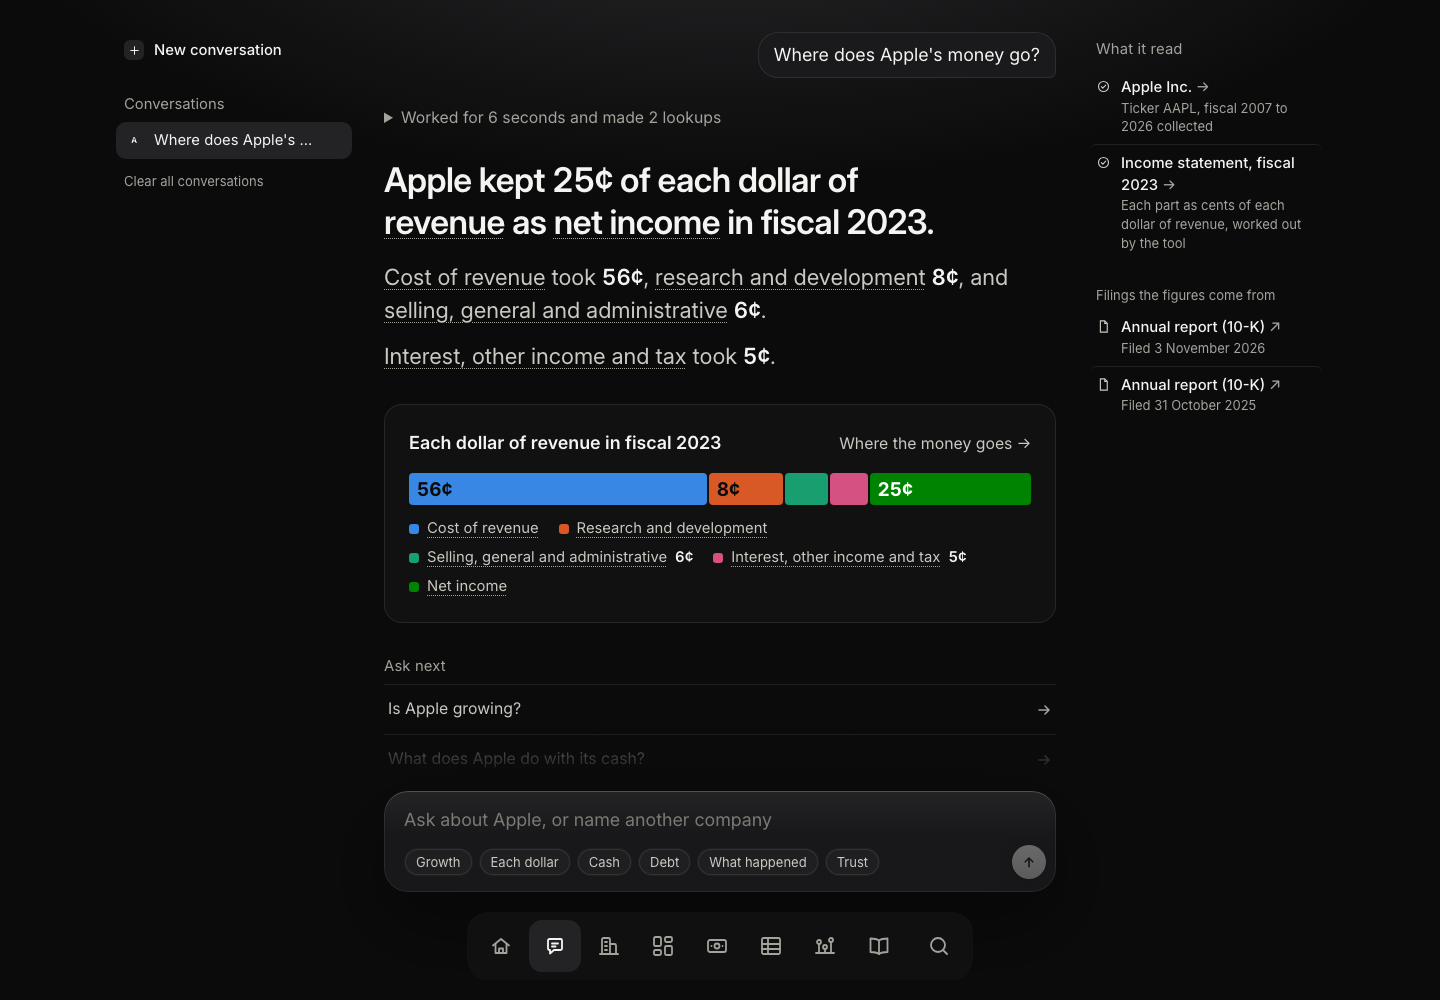
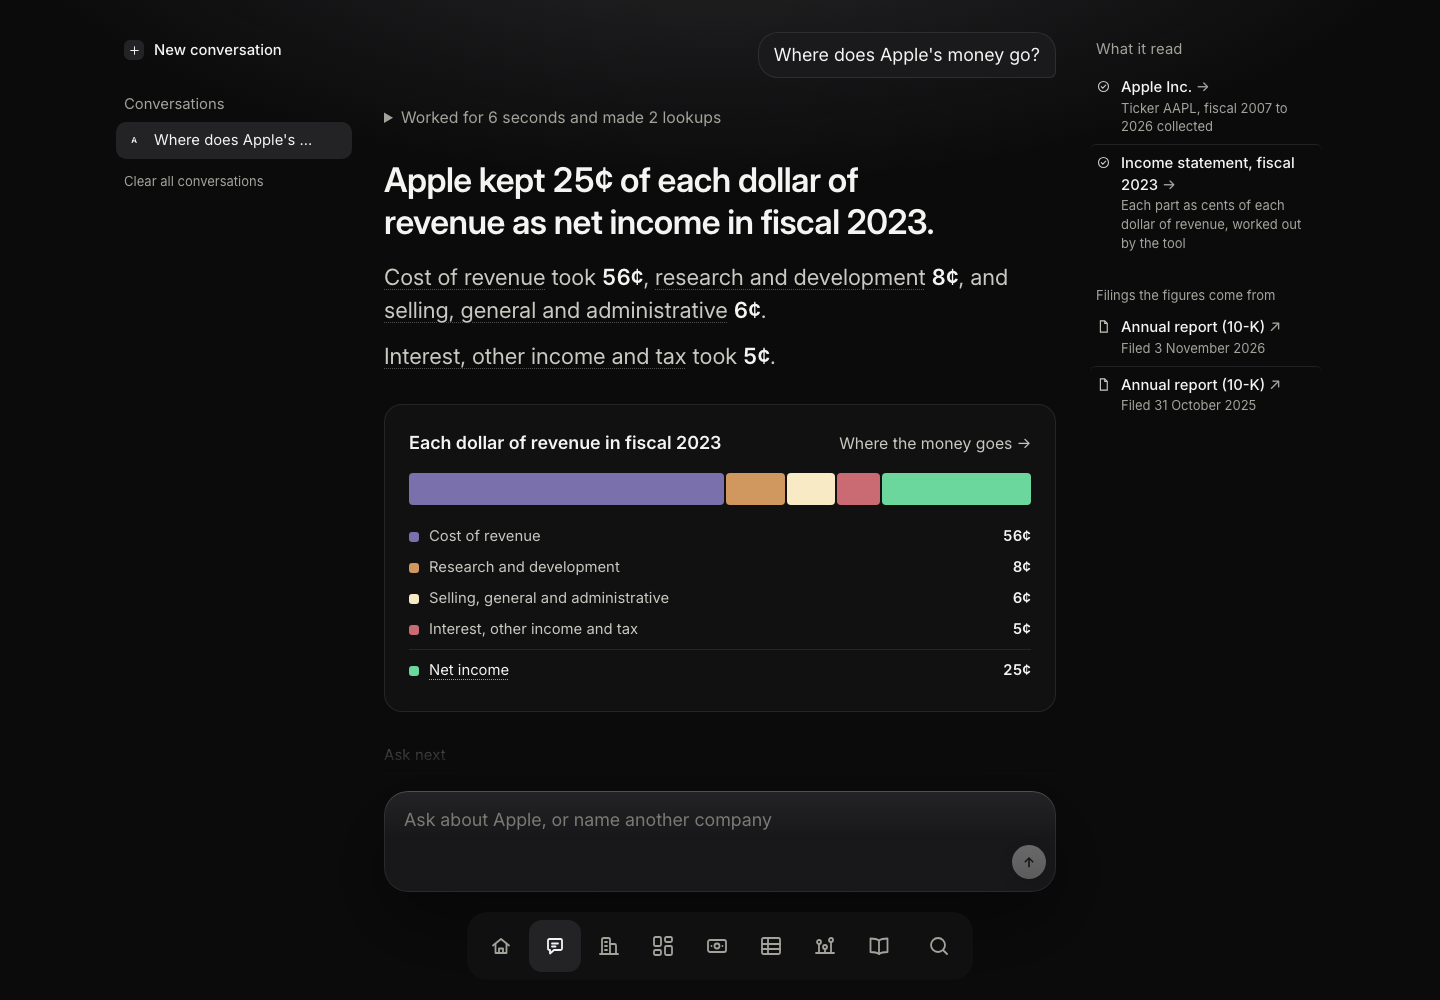
feat: make an answer's headline read clean, its chart read like a receipt, and offer one set of questions
The headline underlines no word; a word from the glossary is underlined once, faintly, in the sentences below it. The chart of a dollar lists every part with its cents lined up on the right and what was left under a rule, underlining only the words the sentences did not. Once an answer offers questions to ask next, the topic buttons leave the question box.

diff --git a/src/ui/ask/drawing/body.tsx b/src/ui/ask/drawing/body.tsx
@@ -1,6 +1,7 @@
 import type { Drawing } from "../../../shared/lookups";
 import { longDate, money, moneyShort } from "../../../shared/format";
 import { CalculatedMark, DoubtfulMark, GapMark } from "../../marks";
+import { findTerm } from "../../../glossary/glossary";
 import { Term } from "../../term";
 import { type Tip, Caption } from "./chart-parts";
 import { LineChart } from "./line-chart";
@@ -16,16 +17,16 @@ const partColors: Record<string, string> = {
   netIncome: "var(--color-part-kept)",
 };
 
-const insideDollar = 8;
-
 export function Body({
   drawing,
   width,
   tip,
+  linked,
 }: {
   readonly drawing: Drawing;
   readonly width: number;
   readonly tip: Tip;
+  readonly linked: ReadonlySet<string>;
 }) {
   switch (drawing.kind) {
     case "lines": {
@@ -95,25 +96,20 @@ export function Body({
             {drawing.parts.map((part) => (
               <span
                 key={part.key}
-                style={{
-                  flexGrow: part.cents,
-                  background: partColors[part.key],
-                  color:
-                    part.key === "netIncome"
-                      ? "var(--color-text-on-kept)"
-                      : "var(--color-text-on-part)",
-                }}
-              >
-                {part.cents >= insideDollar ? `${part.cents}¢` : ""}
-              </span>
+                style={{ flexGrow: Math.max(part.cents, 0), background: partColors[part.key] }}
+              />
             ))}
           </div>
-          <ul className="dollar-legend">
+          <ul className="ask-receipt">
             {drawing.parts.map((part) => (
-              <li key={part.key}>
+              <li key={part.key} className={part.key === "netIncome" ? "kept" : undefined}>
                 <i style={{ background: partColors[part.key] }} aria-hidden="true" />
-                <Term name={part.name} />
-                {part.cents < insideDollar && <span className="numbers">{part.cents}¢</span>}
+                {linked.has(findTerm(part.name)?.name ?? part.name) ? (
+                  <span>{part.name}</span>
+                ) : (
+                  <Term name={part.name} />
+                )}
+                <span className="numbers">{part.cents}¢</span>
               </li>
             ))}
           </ul>

diff --git a/screens/ask.spec.ts b/screens/ask.spec.ts
@@ -100,3 +100,52 @@ test("a passage of the annual report shows under the answer, with a link to the 
     "https://www.sec.gov/Archives/edgar/data/320193/aapl.htm",
   );
 });
+
+test("an answer's headline underlines no word, and its chart lists every part of the dollar once", async ({
+  page,
+  request,
+}) => {
+  const reply = await request.post("/api/lookup", {
+    headers: sameComputer,
+    data: { name: "dollar", input: { ticker: "AAPL", fiscalYear: 2023 } },
+  });
+  const { result } = (await reply.json()) as { result: unknown };
+
+  await askWithReply(page, [
+    { type: "reading", id: "1", lookup: "dollar", input: { ticker: "AAPL" } },
+    { type: "read", id: "1", lookup: "dollar", result, error: null },
+    {
+      type: "answer",
+      answer: {
+        lead: "Apple kept a quarter of its revenue as net income.",
+        sentences: ["Cost of revenue took the most."],
+        drawing: "dollar",
+        next: ["Is Apple growing?"],
+      },
+    },
+  ]);
+
+  await expect(page.locator(".ask-lead")).toBeVisible();
+  await expect(page.locator(".ask-lead .term")).toHaveCount(0);
+  await expect(page.locator(".ask-sentence .term")).toHaveText(["Cost of revenue"]);
+  const receipt = page.locator(".ask-receipt li");
+  await expect(receipt.first()).toContainText(/Cost of revenue\s*\d+¢/);
+  await expect(receipt.last()).toContainText(/Net income\s*\d+¢/);
+  await expect(page.locator(".ask-receipt .term")).not.toContainText(["Cost of revenue"]);
+  await expect(receipt.last().locator(".term")).toHaveText("Net income");
+  await expect(page.getByRole("group", { name: "Topics" })).toHaveCount(0);
+});
+
+test("the topics stay in the question box when an answer offers nothing to ask next", async ({
+  page,
+}) => {
+  await askWithReply(page, [
+    {
+      type: "answer",
+      answer: { lead: "Apple brought in a lot.", sentences: [], drawing: null, next: [] },
+    },
+  ]);
+
+  await expect(page.locator(".ask-lead")).toBeVisible();
+  await expect(page.getByRole("group", { name: "Topics" })).toBeVisible();
+});

diff --git a/src/ui/ask/turn.tsx b/src/ui/ask/turn.tsx
@@ -67,7 +67,7 @@ export function TurnView({
     companies.find((each) => each.ticker.toUpperCase() === drawnTicker)?.ticker ??
     companies[0]?.ticker ??
     null;
-  const linked = answer === null ? [] : termsToLink([answer.lead, ...answer.sentences]);
+  const linked = answer === null ? [] : termsToLink(answer.sentences);
   const unchecked = answer === null ? 0 : uncheckedIn([answer.lead, ...answer.sentences], known);
   return (
     <section className="ask-turn" aria-label={question}>
@@ -98,7 +98,7 @@ export function TurnView({
             <AnswerText
               text={answer.lead}
               known={known}
-              linked={linked[0] ?? new Set()}
+              linked={new Set()}
               lit={lit}
               onLight={onLight}
             />
@@ -108,7 +108,7 @@ export function TurnView({
               <AnswerText
                 text={sentence}
                 known={known}
-                linked={linked[index + 1] ?? new Set()}
+                linked={linked[index] ?? new Set()}
                 lit={lit}
                 onLight={onLight}
               />
@@ -130,6 +130,7 @@ export function TurnView({
           {drawn?.result?.drawing != null && (
             <DrawingPanel
               drawing={drawn.result.drawing}
+              linked={new Set(linked.flatMap((each) => [...each]))}
               link={
                 screen === undefined || ticker === null ? null : (
                   <Link className="more-link" to={`/$ticker/${screen.path}`} params={{ ticker }}>

diff --git a/src/styles/ask.css b/src/styles/ask.css
@@ -739,6 +739,46 @@
     margin-top: 32px;
   }
 
+  .ask-sentence .term {
+    text-decoration-color: rgb(163 162 155 / 0.45);
+  }
+
+  /* Each part of the dollar as a line of a receipt, with what was left under a rule. */
+  .ask-receipt {
+    margin: 16px 0 0;
+    padding: 0;
+    list-style: none;
+    font-size: var(--text-xs);
+    color: var(--color-text-2);
+  }
+
+  .ask-receipt li {
+    display: grid;
+    grid-template-columns: 10px 1fr auto;
+    align-items: center;
+    gap: 10px;
+    padding: 4px 0;
+  }
+
+  .ask-receipt i {
+    width: 10px;
+    height: 10px;
+    border-radius: 3px;
+  }
+
+  .ask-receipt .numbers {
+    color: var(--color-text-1);
+    font-weight: 600;
+    font-variant-numeric: tabular-nums;
+  }
+
+  .ask-receipt li.kept {
+    margin-top: 4px;
+    padding-top: 9px;
+    border-top: 1px solid var(--color-hairline);
+    color: var(--color-text-1);
+  }
+
   .ask-drawing .panel-title {
     flex-wrap: nowrap;
     align-items: baseline;

diff --git a/src/ui/ask/composer.tsx b/src/ui/ask/composer.tsx
@@ -16,12 +16,14 @@ export function AskComposer({
   onStop,
   threadId,
   centred,
+  offered,
 }: {
   readonly context: ReadonlyArray<Mention>;
   readonly working: boolean;
   readonly onStop: () => void;
   readonly threadId: string | null;
   readonly centred: boolean;
+  readonly offered: boolean;
 }) {
   const navigate = useNavigate();
   const askToCollect = useAskToCollect();
@@ -174,7 +176,7 @@ export function AskComposer({
               {say}
               {prefill.pending && <Clears />}
             </p>
-          ) : about !== null ? (
+          ) : about !== null && !offered ? (
             <div className="ask-topics" role="group" aria-label="Topics">
               {topics.map((topic) => {
                 const question = questions.find((each) => each.key === topic.key)!;

diff --git a/src/ui/ask/drawing.tsx b/src/ui/ask/drawing.tsx
@@ -7,9 +7,11 @@ import { Body } from "./drawing/body";
 export function DrawingPanel({
   drawing,
   link,
+  linked,
 }: {
   readonly drawing: Drawing;
   readonly link: ReactNode;
+  readonly linked: ReadonlySet<string>;
 }) {
   const box = useRef<HTMLDivElement>(null);
   const width = Math.max(260, useWidth(box, 720));
@@ -21,7 +23,7 @@ export function DrawingPanel({
         {link}
       </div>
       <div ref={box} onMouseLeave={tip.hide}>
-        <Body drawing={drawing} width={width} tip={tip} />
+        <Body drawing={drawing} width={width} tip={tip} linked={linked} />
       </div>
       {tip.element}
     </section>

diff --git a/src/ui/overview/dollar-bar.tsx b/src/ui/overview/dollar-bar.tsx
@@ -54,10 +54,7 @@ export function DollarBar({
             style={{
               flexGrow: share,
               background: part.color,
-              color:
-                part.key === "netIncome"
-                  ? "var(--color-text-on-kept)"
-                  : "var(--color-text-on-part)",
+              color: "var(--color-text-on-part)",
             }}
           >
             {share >= labelInside ? `${share}¢` : ""}

diff --git a/src/ui/ask/conversation.tsx b/src/ui/ask/conversation.tsx
@@ -229,6 +229,7 @@ export function Conversation({
             onStop={live.stop}
             threadId={thread?.id ?? null}
             centred={blank}
+            offered={(latest.state.answer?.next.length ?? 0) > 0}
           />
           {blank && (
             <p className="ask-foot ask-empty-note">

diff --git a/src/styles/tokens.css b/src/styles/tokens.css
@@ -30,7 +30,6 @@
 
   /* Text set inside a part of a dollar: near-black on every part. */
   --color-text-on-part: #0b0b0c;
-  --color-text-on-kept: #0b0b0c;
 
   /* The quiet lines of a chart: grid, baseline at zero, the chosen year
      and the year under the pointer. */
